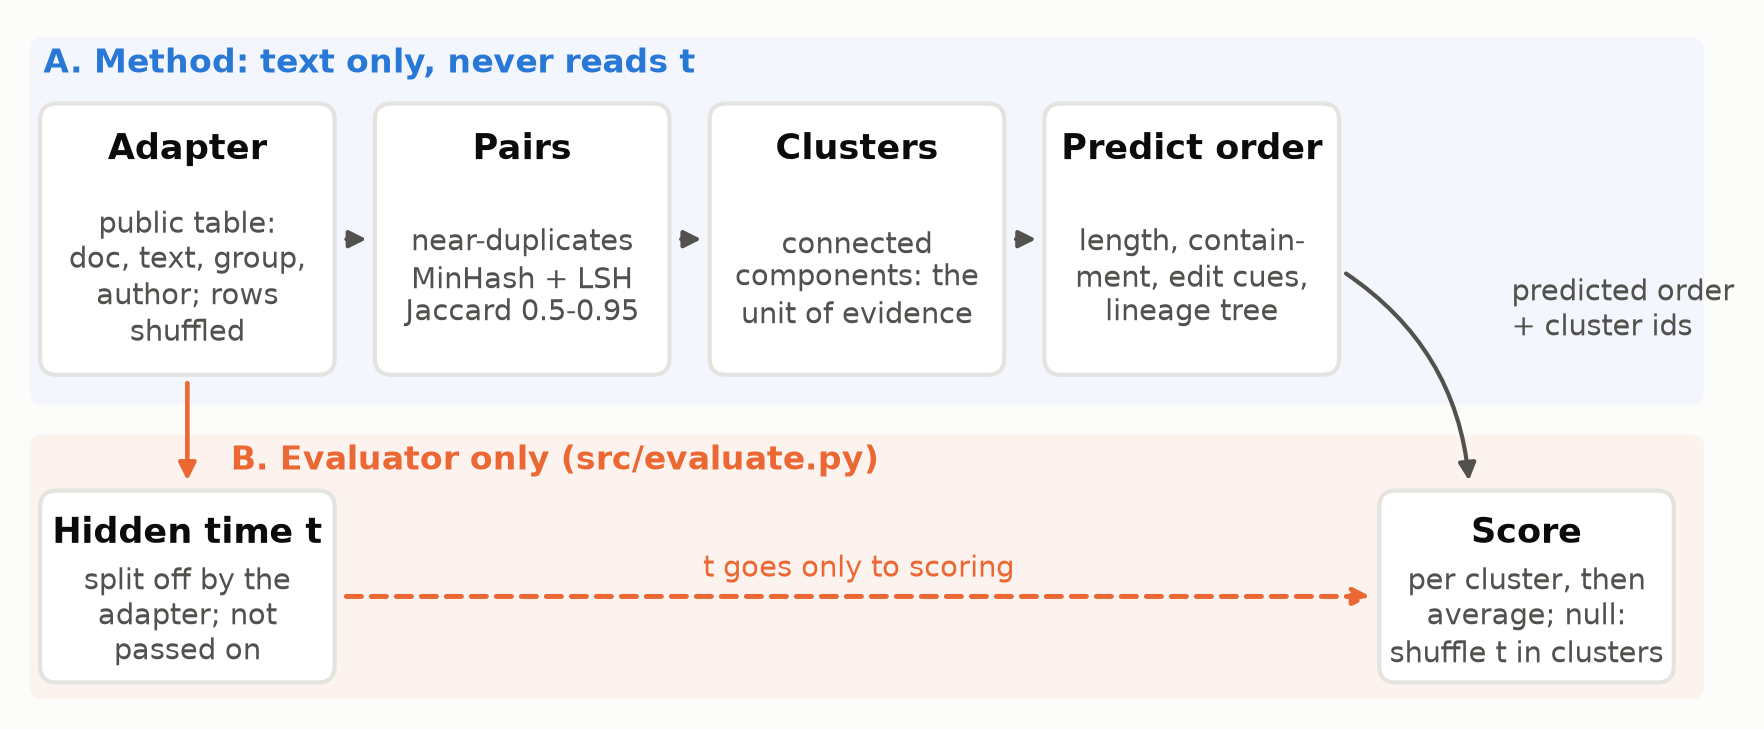
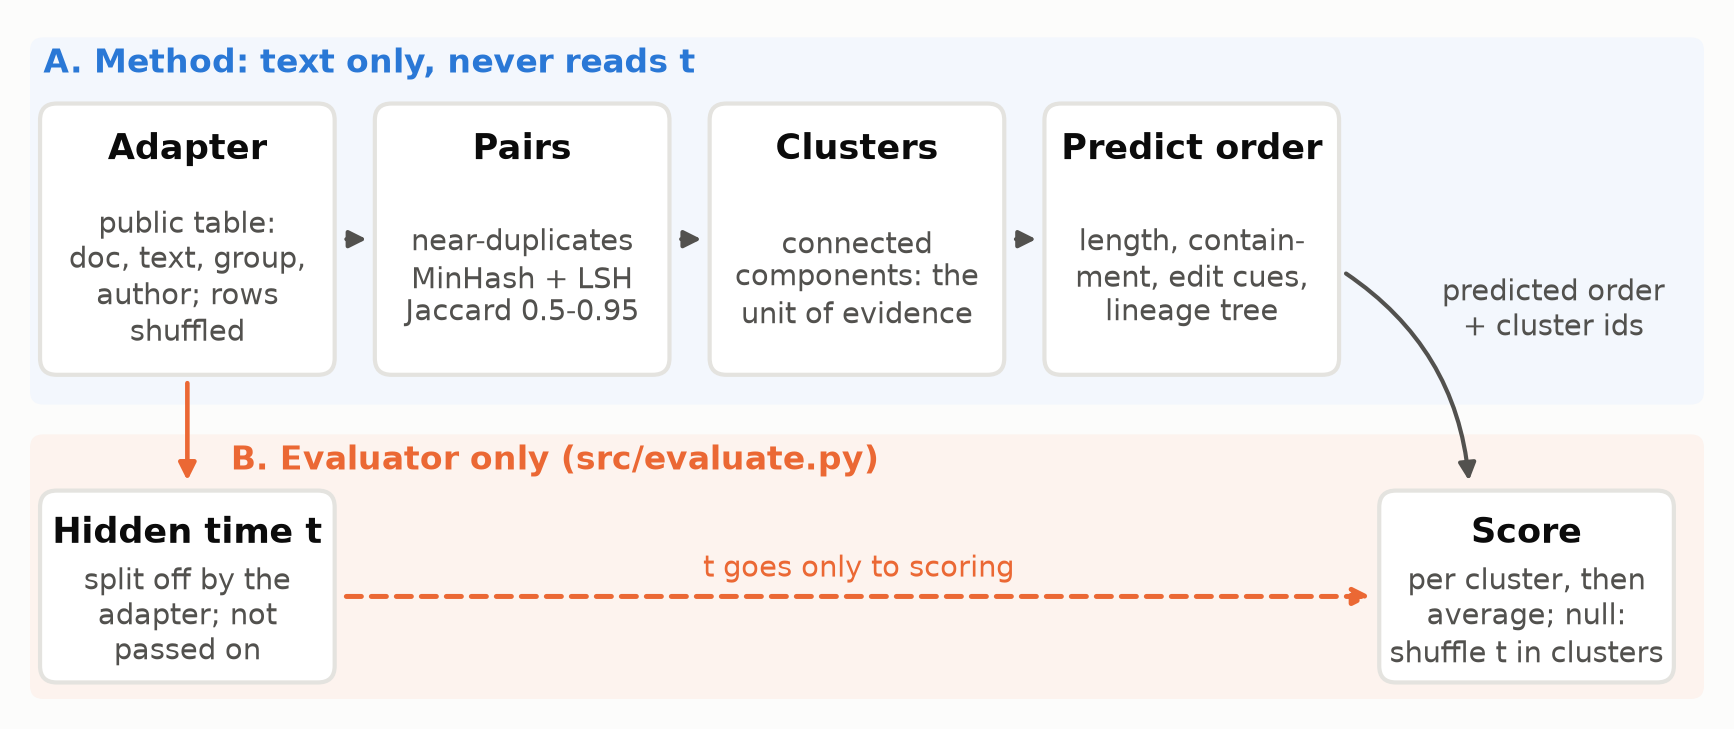
Figure 1: keep side label inside the method lane

diff --git a/experiments/FIG_report.py b/experiments/FIG_report.py
@@ -120,7 +120,7 @@ def fig_pipeline() -> None:
     ax.text(4.95, 0.74, "t goes only to scoring", ha="center", fontsize=7, color=ORANGE)
     ax.annotate("", xy=(8.6, 1.27), xytext=(7.82, 2.6),
                 arrowprops=dict(arrowstyle="-|>", color=TEXT2, lw=1, connectionstyle="arc3,rad=-0.25"))
-    ax.text(8.85, 2.35, "predicted order\n+ cluster ids", ha="left", fontsize=7, color=TEXT2, va="center")
+    ax.text(9.1, 2.35, "predicted order\n+ cluster ids", ha="center", fontsize=7, color=TEXT2, va="center")
     save(fig, "R1_pipeline.png")
 
 
